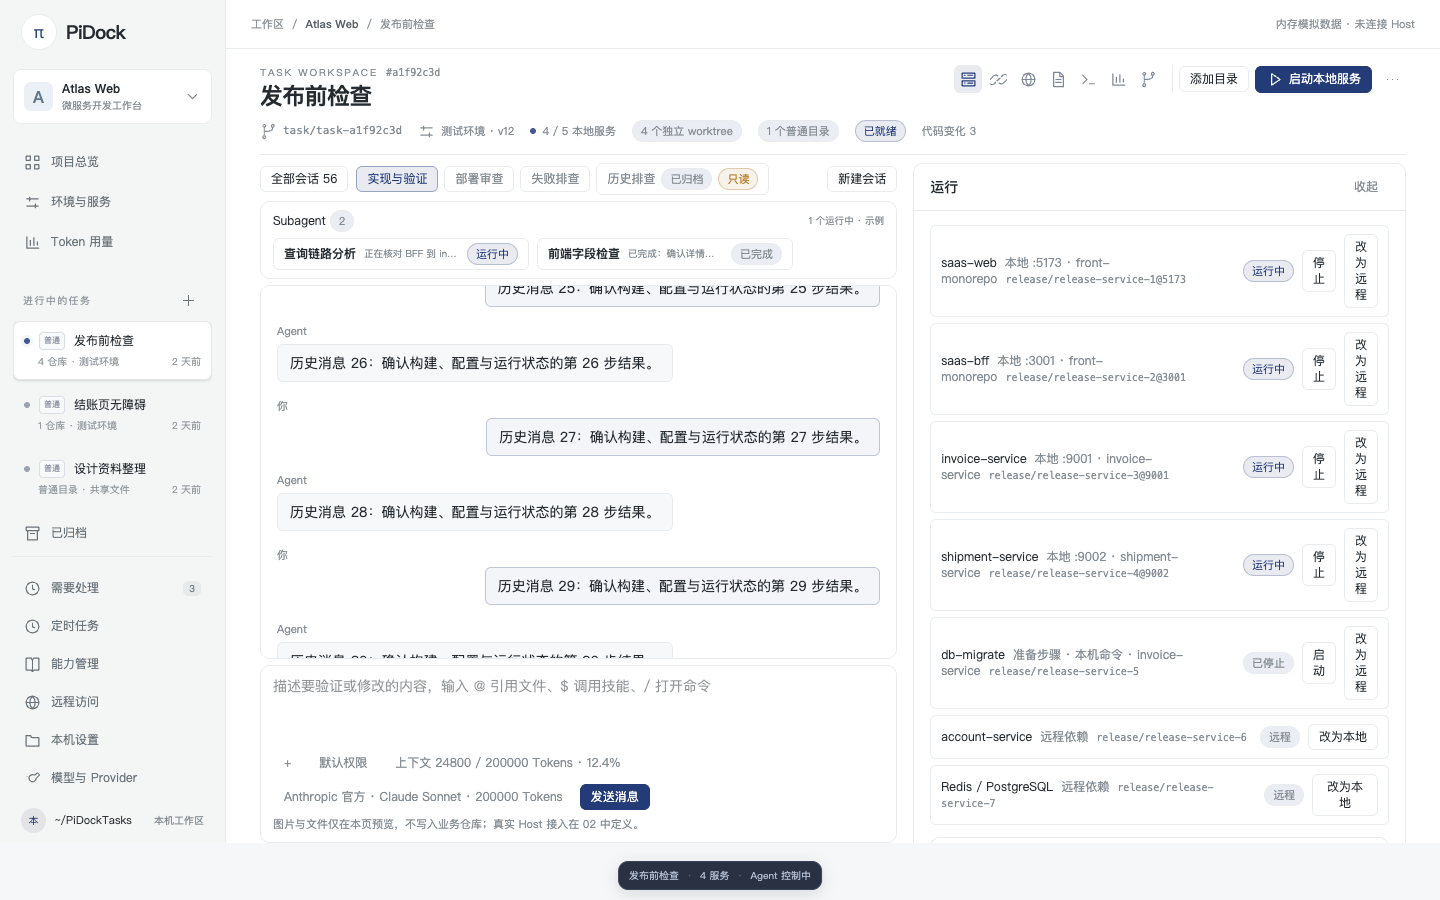
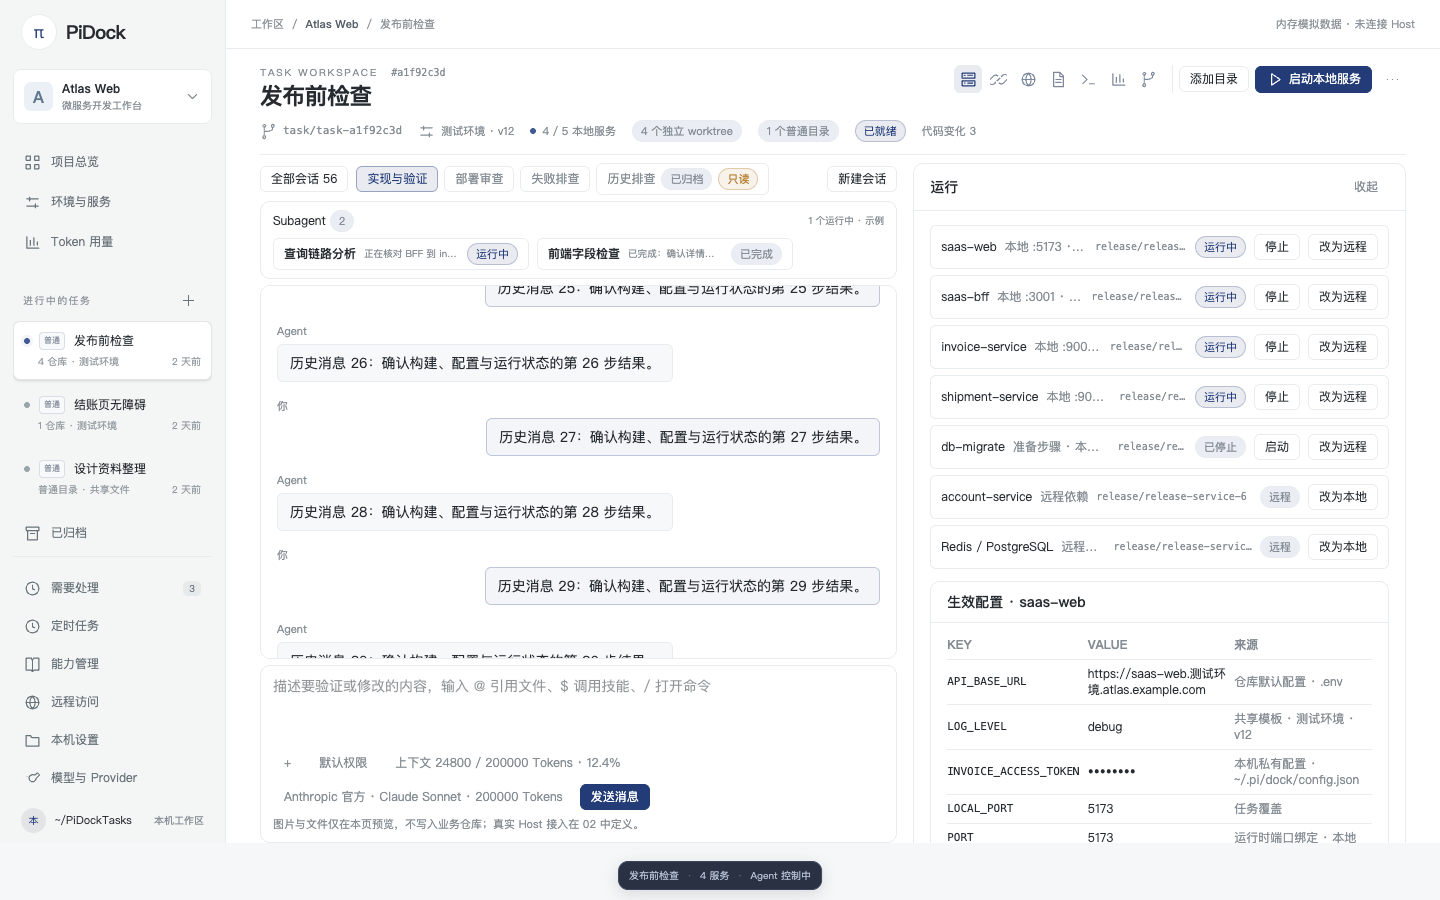
fix(renderer): finish S2 polish on eyebrow spacing, disabled run toggle and panel rows (#27)
Final review follow-up for [#27] (P2-1..P2-4), renderer + this slice's
evidence only:

- Eyebrow: the space the prototype keeps next to `margin-left:8px` is back, so
  the accessible text is `TASK WORKSPACE #<key>` instead of the glued
  `TASK WORKSPACE#<key>` (`taskHeaderFlow` asserts the full text now).
- Button: base classes carry `disabled:cursor-not-allowed disabled:opacity-50`.
  The task header keeps the prototype's `toggle-run` visible for a task with no
  local service, and it must not look clickable (asserted in `taskHeaderFlow`).
- Tool panel service rows: the 43%-wide panel used to squeeze `停止`/`改为远程`
  into wrapped 1-2 character vertical text. The action group is now
  `shrink-0 whitespace-nowrap` with `shrink-0` buttons, and the name is
  `shrink-0` while location/instance address truncate; `serviceTopologyFlow`
  pins the contract, the refreshed screenshots show single-line labels.
- Evidence: `capture-vertical.mjs` measures the session tab strip
  (`tabStrip = {scrollWidth, clientWidth, noClip}`) and now also captures
  1280/1024 one-panel screenshots. The new assertion reports a real residual:
  the strip is `overflow-hidden` with no scroll affordance and clips 41px
  (1280) / 149px (1024) with a tool panel open; 0px at 1440 and in every
  no-panel state. Recorded in `verification-log.md` §6.8 with candidate fixes;
  not fixed here because the strip affordance is a parent decision.

Gate: 8/8 tasks, shell 54/801, renderer 46/395.

diff --git a/packages/renderer/src/components/ToolPanels.tsx b/packages/renderer/src/components/ToolPanels.tsx
@@ -75,23 +75,33 @@ export function RuntimePanel({
           const unit = topology.units.find((candidate) => candidate.serviceId === item.id);
           return (
           <li key={item.id} className="flex items-center justify-between gap-2 rounded-md border border-line px-2.5 py-2 text-xs">
-            <button type="button" className="text-left" data-testid={`service-row-${item.id}`} onClick={() => setSelected(item.id)}>
-              <span className="text-ink">{item.name}</span>
-              <span className="ml-2 text-muted">
+            {/* The tool panel is 43% of the workspace and the instance address is
+                a long monospace string, so the name/address truncate and the
+                action group keeps its size: a squeezed `停止`/`改为远程` text
+                button folds into vertical text (#27 review note). */}
+            <button
+              type="button"
+              className="flex min-w-0 flex-1 items-center gap-2 text-left"
+              data-testid={`service-row-${item.id}`}
+              onClick={() => setSelected(item.id)}
+            >
+              <span className="shrink-0 text-ink">{item.name}</span>
+              <span className="truncate text-muted">
                 {locationLabel(item)}
                 {item.repo ? ` · ${item.repo}` : ""}
               </span>
               {unit ? (
-                <span className="ml-2 font-mono text-[10px] text-muted" data-testid={`service-instance-${item.id}`}>
+                <span className="truncate font-mono text-[10px] text-muted" data-testid={`service-instance-${item.id}`}>
                   {instanceAddress(task.id, unit.serviceId, item.port)}
                 </span>
               ) : null}
             </button>
-            <div className="flex items-center gap-2">
+            <div className="flex shrink-0 items-center gap-2 whitespace-nowrap">
               <Badge tone={item.running ? "accent" : "neutral"}>{item.running ? "运行中" : item.mode === "remote" ? "远程" : "已停止"}</Badge>
               {item.mode === "local" ? (
                 <Button
                   size="sm"
+                  className="shrink-0"
                   onClick={() => {
                     if (readonly) {
                       onReadonlyAttempt?.();
@@ -106,6 +116,7 @@ export function RuntimePanel({
               {onSetServiceMode ? (
                 <Button
                   size="sm"
+                  className="shrink-0"
                   aria-label={`切换 ${item.name} 依赖去向`}
                   onClick={() => {
                     if (readonly) {

diff --git a/packages/renderer/src/test/serviceTopologyFlow.test.tsx b/packages/renderer/src/test/serviceTopologyFlow.test.tsx
@@ -22,6 +22,19 @@ describe("runtime panel topology", () => {
     expect(await screen.findByTestId("service-instance-release-service-1")).toHaveTextContent("release/release-service-1@5173");
     expect(screen.getByTestId("service-instance-release-service-2")).toHaveTextContent("release/release-service-2@3001");
 
+    // [UI 对齐 03] (#27) a 43%-wide panel with a long monospace address used to
+    // squeeze the action buttons into wrapped text; the row keeps the action
+    // group at its own size and truncates the name/address instead. jsdom has no
+    // layout, so the class contract is asserted here (the rendered result is in
+    // `docs/evidence/ui-alignment-s2/renderer/*-one-panel.png`).
+    const firstRow = screen.getByTestId("service-row-release-service-1");
+    expect(firstRow.querySelector("span.truncate")).not.toBeNull();
+    expect(screen.getByTestId("service-instance-release-service-1").className).toContain("truncate");
+    const stopButton = within(firstRow.closest("li") as HTMLElement).getByRole("button", { name: "停止" });
+    expect(stopButton.className).toContain("shrink-0");
+    expect(stopButton.parentElement?.className).toContain("shrink-0");
+    expect(stopButton.parentElement?.className).toContain("whitespace-nowrap");
+
     // Box 1: the runtime binding of the selected service goes to this task's
     // instance; its repo-default URL keeps the shared environment value.
     const routing = await screen.findByTestId("service-routing");

diff --git a/packages/renderer/src/test/taskHeaderFlow.test.tsx b/packages/renderer/src/test/taskHeaderFlow.test.tsx
@@ -78,10 +78,11 @@ describe("task header actionset", () => {
     // key stands in (without the `task-` prefix) and the full key stays in the
     // eyebrow's `title`.
     expect(within(header).getByText("#a1f92c3d")).toBeInTheDocument();
-    expect(within(header).getByText("TASK WORKSPACE").closest("[title]")).toHaveAttribute(
-      "title",
-      expect.stringContaining("task-a1f92c3d"),
-    );
+    const eyebrow = within(header).getByText("TASK WORKSPACE").closest("[title]");
+    expect(eyebrow).toHaveAttribute("title", expect.stringContaining("task-a1f92c3d"));
+    // The prototype keeps both a space and an 8px gap (`app.js` `header()`); the
+    // space is what the accessible text (and a screen reader) relies on.
+    expect(eyebrow?.textContent).toBe("TASK WORKSPACE #a1f92c3d");
   });
 
   it("keeps the run toggle visible but disabled when the task has no local service", async () => {
@@ -100,6 +101,10 @@ describe("task header actionset", () => {
     const toggle = await screen.findByRole("button", { name: "启动本地服务" });
     expect(toggle).toBeDisabled();
     expect(toggle).toHaveAttribute("title", "当前任务没有本地服务");
+    // A disabled button that still looks primary reads as broken; `Button` now
+    // carries the disabled affordance itself (#27 review note).
+    expect(toggle.className).toContain("disabled:opacity-50");
+    expect(toggle.className).toContain("disabled:cursor-not-allowed");
   });
 });
 

diff --git a/packages/renderer/src/pages/TaskPage.tsx b/packages/renderer/src/pages/TaskPage.tsx
@@ -621,7 +621,11 @@ function TaskHeader({ task, actions }: { task: Task; actions: ReactNode }) {
               <span>TASK · 普通目录</span>
             ) : (
               <>
-                TASK WORKSPACE
+                {/* The prototype has both a space and `margin-left:8px`
+                    (`app.js` `header()`); the space keeps the accessible text
+                    (and the screen-reader reading order) `TASK WORKSPACE #<key>`
+                    instead of gluing the two words together (#27 review note). */}
+                TASK WORKSPACE{" "}
                 {/* Prototype `TASK WORKSPACE #001`: the product has no task
                     ordinal, so the eyebrow shows the task key without its
                     `task-` prefix; the full `workspaceKey` stays in the title. */}
@@ -718,7 +722,7 @@ function SessionTabs({
       <Button size="sm" className="shrink-0" onClick={() => openModal({ type: "sessions", taskId: task.id, filter: "active" })}>
         全部会话 {task.sessions.length}
       </Button>
-      <div className="flex min-w-0 flex-1 items-center gap-1.5 overflow-hidden">
+      <div data-testid="session-tab-strip" className="flex min-w-0 flex-1 items-center gap-1.5 overflow-hidden">
         {visibleSessions.map((session) => {
           const role = roles.get(session.id);
           const roleLabel = role ? sessionWriteRoleLabel(role) : null;

diff --git a/packages/renderer/src/components/ui.tsx b/packages/renderer/src/components/ui.tsx
@@ -15,6 +15,11 @@ export function Button({ variant = "default", size = "md", className = "", ...re
       : variant === "ghost"
         ? "border-transparent text-muted hover:bg-soft hover:text-ink"
         : "border-line bg-paper text-ink hover:border-accent/40 hover:bg-soft",
+    // A disabled button must look disabled: the task header keeps the
+    // prototype's `toggle-run` visible when a task has no local service, and a
+    // primary-looking button that ignores clicks reads as broken (#27 review
+    // note). Same wording as the local `disabled:` styles elsewhere.
+    "disabled:cursor-not-allowed disabled:opacity-50",
     "focus-visible:outline focus-visible:outline-2 focus-visible:outline-offset-2 focus-visible:outline-accent",
     className,
   ].join(" ");

diff --git a/docs/evidence/ui-alignment-s2/verification-log.md b/docs/evidence/ui-alignment-s2/verification-log.md
@@ -7,7 +7,7 @@
 node docs/evidence/ui-alignment-s2/capture-vertical.mjs
 ```
 
-产物：`vertical-budget.json`（逐区块高度 / 消息区高度与占比 / 横向溢出，**9 组状态** = 3 视口 × 3 面板态）、`renderer/*.png`（渲染层 **5 张**：1440×900 三种面板状态 + `任务操作` 菜单 + 普通目录任务）、`prototype/1440-prototype-A.png`（原型对照，1 张）。脚本输出写回本目录，可在任意 cwd 重跑。
+产物：`vertical-budget.json`（逐区块高度 / 消息区高度与占比 / 横向溢出 / 会话标签条是否裁切，**9 组状态** = 3 视口 × 3 面板态）、`renderer/*.png`（渲染层 **7 张**：1440×900 三种面板状态 + 1280×900 / 1024×800 的 1 面板态 + `任务操作` 菜单 + 普通目录任务）、`prototype/1440-prototype-A.png`（原型对照，1 张）。脚本输出写回本目录，可在任意 cwd 重跑。
 
 ## 1. 验收结论
 
@@ -19,7 +19,7 @@ node docs/evidence/ui-alignment-s2/capture-vertical.mjs
 | 4 | 纵向预算：1440×900 无面板 ≥400px（≥45%）；1 个面板 ≥330px | COVERED | **无面板 408px（45.3%）**、**1 个面板 374px（41.5%）**、6 个面板 374px（`vertical-budget.json.states["1440x900-*"]`） |
 | 5 | Subagent 卡区不常占高度 | COVERED | 仅在当前会话存在 Subagent 时渲染（`TaskPage.tsx` 条件 + `SessionSubagentList` 空数组返回 null，`restoredFlows.test.tsx`「切换会话后子代理列表消失」用例仍覆盖），且压缩为单行卡片：122px → **78px**（原型同区块 117px） |
 | 6 | 输入区不因本切片变高（≤150px @1440×900 空内容） | COVERED（含披露） | 无面板 **145px** ✓；打开面板时 **179px** —— 该增长在切片前基线同样存在（窄列下两个控件簇折行），属 S4「输入框与附件」范围，本切片未改输入区 |
-| 7 | 会话标签改用 `below-*` 断点 | COVERED | `TaskPage.tsx` 非活跃标签 `flex below-mid:hidden`（原 `hidden md:flex`）；标签行改为不折行：`Badge` 加 `whitespace-nowrap` 后 **9 组状态全部 32px**（修复前 1280/1024 开面板时为 48px，见 §2） |
+| 7 | 会话标签改用 `below-*` 断点 | COVERED（含裁切残留，见 §6.8） | `TaskPage.tsx` 非活跃标签 `flex below-mid:hidden`（原 `hidden md:flex`）；标签行改为不折行：`Badge` 加 `whitespace-nowrap` 后 **9 组状态全部 32px**（修复前 1280/1024 开面板时为 48px，见 §2）。收尾轮补 `session-tab-strip` 的 `scrollWidth <= clientWidth` 断言：1440 全档与所有视口的无面板态 **不裁切**，1280/1024 开面板时仍裁切 41px / 149px（§6.8） |
 | 8 | 底部摘要栏按时降级 | COVERED | `ShellSummaryBar.tsx`：≤960 隐藏浏览器控制者段、≤720 隐藏服务段并收紧 padding/gap（原型 `.switcher .state{display:none}`、`@media(max-width:720px){.switcher{gap:2px;padding:6px}}`） |
 | 9 | 顺带修 #26 两条 P2 | COVERED | `Shell.tsx`：页类页面中间档改四边 `p-[25px]`；子代理独立栏 ≤720 改 `below-stack:min-h-[620px]`（原型 `.subagent-sidebar{height:620px}`），工具面板仍 `below-stack:min-h-[500px]` |
 | 9b | 原型保真补充：非普通目录任务的 `启动/停止服务` 始终渲染 | COVERED | 无本地服务时 `disabled` + `title="当前任务没有本地服务"`（原型 `toggle-run` 无条件渲染）；用例：把全部本地服务切为 `remote` 后断言按钮存在、禁用、title 正确 |
@@ -51,6 +51,17 @@ node docs/evidence/ui-alignment-s2/capture-vertical.mjs
 | 1024×800 closed / one / all | 32 / **48** / **48** | 32 / **32** / **32** | 274 / 218 / 218 | 274 / **234** / **234** |
 
 根因：压缩后的会话标签内 CJK `Badge`（`已归档`/`只读`/写入角色）可折行，把 32px 标签行撑到 48px；`Badge` 加 `whitespace-nowrap` 后全部状态回到 32px，窄档消息区因此回收 16px。1440×900 的验收指标未受影响（每档均为 32px）。
+
+### 收尾修复轮二（本轮：eyebrow 空格 / 禁用态 / 服务行按钮 / 标签条断言）
+
+| 项 | before | after |
+| --- | --- | --- |
+| eyebrow 可访问文本 | `TASK WORKSPACE#a1f92c3d`（无空格） | `TASK WORKSPACE #a1f92c3d`（补齐原型同时具备的空格 + `margin-left:8px`） |
+| 零本地服务时的 `启动/停止服务` | `disabled` 但保留 primary 外观 | `Button` 基类统一 `disabled:opacity-50 disabled:cursor-not-allowed` |
+| 工具面板服务行操作按钮 @1440 开 1 面板 | `停止` / `改为远程` 被压成竖排 1–2 字 | 操作组 `shrink-0 whitespace-nowrap`、按钮 `shrink-0`；服务名 `shrink-0`、位置与实例地址 `truncate` → 单行完整（见 `renderer/1440-one-panel.png`、`renderer/1024-one-panel.png`） |
+| 会话标签条裁切断言 | 无（只有页面级 `scrollWidth`） | `states[*].tabStrip = { scrollWidth, clientWidth, noClip }` |
+
+服务行验证方式：`serviceTopologyFlow.test.tsx` 断言行内 `span.truncate` 存在、实例地址带 `truncate`、`停止` 按钮及其操作组带 `shrink-0`/`whitespace-nowrap`（jsdom 无布局，故配截图；截图已随本目录刷新）。
 
 ### 各档全量（本切片）
 
@@ -91,10 +102,11 @@ node docs/evidence/ui-alignment-s2/capture-vertical.mjs
 
 ## 4. 机制与改动文件
 
-- `packages/renderer/src/components/ui.tsx`：新增 `IconButton`（原型 `.iconbtn` 28px、hover `#e9eded`、选中用柔和强调色；React 19 下 `ref` 作为普通 prop 传入）；`aria-pressed` 仅在显式传入 `selected` 时输出（菜单触发器不再自称开关）；`Badge` 加 `whitespace-nowrap`（窄栏不折行）。
+- `packages/renderer/src/components/ui.tsx`：新增 `IconButton`（原型 `.iconbtn` 28px、hover `#e9eded`、选中用柔和强调色；React 19 下 `ref` 作为普通 prop 传入）；`aria-pressed` 仅在显式传入 `selected` 时输出（菜单触发器不再自称开关）；`Badge` 加 `whitespace-nowrap`（窄栏不折行）；`Button` 基类加 `disabled:cursor-not-allowed disabled:opacity-50`（禁用态可见）。
+- `packages/renderer/src/components/ToolPanels.tsx`：`SessionSubagentList` 单行卡片（摘要以 `title` 保留）；服务行改为「左按钮 `min-w-0 flex-1` + 名称 `shrink-0` + 位置/实例地址 `truncate`」与「操作组 `shrink-0 whitespace-nowrap`」，操作按钮不再被压成竖排。
 - `packages/renderer/src/components/Icon.tsx`：新增 `branch/server/terminal/file/link/more/play/stop`（路径取自原型 `app.js` `paths`）；协议面板用 `link`（原型无协议工具，见文件内注释）；`play`/`stop` 用于头部的本地服务开关（原型 `toggle-run`）；未使用的 `check` 已删。
 - `packages/renderer/src/components/TaskActionMenu.tsx`：`···` 菜单（`role="menu"`、首项聚焦、方向键/Home/End、Esc 回焦、外点关闭）。
-- `packages/renderer/src/pages/TaskPage.tsx`：头部重写；删除文字按钮行；头部移到 `task-body` 之上（原型 `.main > .taskheader + .taskbody`）；工具条图标按钮；本地服务批量开关；会话标签断点与不折行；子代理栏 ≤720 高度；子代理卡片压缩为单行。
+- `packages/renderer/src/pages/TaskPage.tsx`：头部重写；删除文字按钮行；头部移到 `task-body` 之上（原型 `.main > .taskheader + .taskbody`）；工具条图标按钮；本地服务批量开关；会话标签断点与不折行；子代理栏 ≤720 高度；子代理卡片压缩为单行；eyebrow 补空格；会话标签条加 `data-testid="session-tab-strip"`（供证据断言）。
 - `packages/renderer/src/components/ToolPanels.tsx`：`SessionSubagentList` 单行卡片（摘要以 `title` 保留）。
 - `packages/renderer/src/components/Shell.tsx`：任务视图去掉纵向页面内边距（保留水平内边距），页类页面中间档改四边 `25px`。
 - `packages/renderer/src/components/ShellSummaryBar.tsx`：窄档降级。
@@ -118,3 +130,12 @@ Tasks:    8 successful, 8 total
 5. **`重命名任务` / `查看全部会话` / `新建会话` 菜单项**：复用既有模态与既有 `createSession`；菜单本身的键盘用例覆盖，但「新建会话」在菜单中的创建结果未单独断言（既有会话标签的创建流程仍有用例）。
 6. **无本地服务的任务**：种子任务均有本地服务，`启动/停止服务` 的 `disabled` 分支只在把全部本地服务切为 `remote` 后可达（用例即这么做）；真实仓库中零本地服务任务的头部观感未做截图。
 7. 原型数值取自 4319 原型服务（只读），未修改 `prototypes/**`。
+8. **会话标签条在窄栏会裁切（新发现，本轮断言实测）**：`session-tab-strip` 为 `overflow-hidden` 且无横向滚动，`Badge` 不再折行后多余宽度由标签条自己吃掉：
+
+   | 状态 | scrollWidth | clientWidth | 裁切 |
+   | --- | --- | --- | --- |
+   | 1440×900（closed/one/all） | 972 / 463 / 463 | 972 / 463 / 463 | **0px** |
+   | 1280×900 closed / one / all | 812 / 413 / 413 | 812 / **372** / **372** | 0 / **41px** / **41px** |
+   | 1024×800 closed / one / all | 590 / 413 / 413 | 590 / **264** / **264** | 0 / **149px** / **149px** |
+
+   可见后果：`renderer/1024-one-panel.png` 中「历史排查」标签被截断（无滚动提示、无法滑出）。1440×900 的验收指标不受影响（0px），但这是本轮新增断言暴露的**真实残留**，未擅自扩大范围修改：候选修法（需父流程定）——(a) 标签条改 `overflow-x-auto` + 隐藏滚动条；(b) 标签按钮改 `min-w-0` 允许进一步压缩（标签更早截断，但全部可见）；(c) 放不下时把非活跃标签收成「+N」计数入口。
